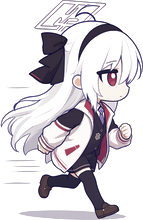
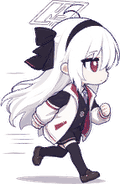
首屏瘦身(①②③)：头像 131KB→33.6KB(96px/9帧，另附4.4KB静态WebP可选)、加载图 50.7KB→9.8KB(加?v=2)、Nginx 加 HSTS、新增 resetSeo 修 og/JSON-LD 残留、文章封面优先作 og:image；首屏 471KB→334KB

diff --git a/index.html b/index.html
@@ -583,7 +583,7 @@
 <!-- ================= 开场加载屏：小人沿进度条奔跑，加载完淡出 ================= -->
 <div id="loader">
   <div class="loader-box">
-    <div class="loader-stage"><img class="loader-runner" src="assets/img/runner.png" alt="加载中"></div>
+    <div class="loader-stage"><img class="loader-runner" src="assets/img/runner.png?v=2" alt="加载中"></div>
     <div class="loader-track"><div class="loader-fill" id="loaderFill"></div></div>
     <div class="loader-pct"><span id="loaderPct">0</span>%</div>
   </div>
@@ -617,7 +617,7 @@
 <div class="toast" id="toast"></div>
 
 <!-- ================= 站点信息：博客名 / 头像 / 介绍 / 背景图 / 页脚，改 site.js 即可 ================= -->
-<script src="site.js?v=12"></script>
+<script src="site.js?v=13"></script>
 
 <!-- ================= 插件库：一个插件一个文件，升级/更换/下线只动 plugins/ 目录 ================= -->
 <script>
@@ -1086,6 +1086,25 @@ function shareBar(kind, id, title) {
     "</div>";
 }
 
+/* 非详情页：把 og 标签重置为站点信息，并移除详情页留下的 JSON-LD
+   （SPA 内从文章返回首页时，否则会残留上一篇文章的标题/描述） */
+function resetSeo() {
+  const set = function (sel, val) {
+    const m = document.querySelector(sel);
+    if (m && val) m.setAttribute("content", val);
+  };
+  set('meta[name="description"]', SITE.description);
+  set('meta[property="og:type"]', "website");
+  set('meta[property="og:title"]', SITE.name);
+  set('meta[property="og:site_name"]', SITE.name);
+  set('meta[property="og:description"]', SITE.description);
+  set('meta[property="og:url"]', SITE.url || (location.origin + "/"));
+  const setImg = document.querySelector('meta[property="og:image"]');
+  if (setImg) setImg.setAttribute("content", siteBase() + "/assets/background.jpg");
+  const ld = document.getElementById("dsh-jsonld");
+  if (ld) ld.remove();
+}
+
 /* 详情页动态 SEO：og 标签 + JSON-LD 结构化数据（给执行 JS 的爬虫） */
 function applyPostSeo(a) {
   const url = postShareUrl(a.id);
@@ -1099,6 +1118,8 @@ function applyPostSeo(a) {
   set('meta[property="og:title"]', a.title);
   set('meta[property="og:description"]', desc);
   set('meta[property="og:url"]', url);
+  /* 分享卡片配图：文章有 cover 就用封面，否则回退站点背景图 */
+  if (a.cover) set('meta[property="og:image"]', /^https?:/i.test(a.cover) ? a.cover : siteBase() + a.cover);
 
   let s = document.getElementById("dsh-jsonld");
   if (!s) {
@@ -1508,6 +1529,7 @@ function route() {
     lastListScroll = window.scrollY || 0;
   }
   articleKeyword = "";
+  resetSeo();          // 先重置为站点默认，文章详情页稍后会重新写入自己的 og/JSON-LD
   let zoomed = false;
   const tryZoom = () => {   // 详情页：尝试从被点卡片的位置放大展开
     const detail = mainView.querySelector(".post-detail, .work-detail");

diff --git a/site.js b/site.js
@@ -14,7 +14,9 @@ window.BLOG_SITE = {
   description: "Kuqi 的个人网站：分享教程、随笔、作品与下载。",  // 站点简介（搜索引擎和分享卡片摘要）
 
   /* 头像 */
-  avatar: "assets/img/preview.gif?v=3",  // 头像图片路径（支持 PNG/JPG/GIF 动图）；留空 "" 则显示名字首字圆形占位
+  avatar: "assets/img/avatar.gif?v=1",  // 头像：96px/9帧压缩动图(33KB，原 preview.gif 131KB)
+  // 想要更极致的体积可换成静态版：assets/img/avatar-static.webp?v=1 （仅 4KB，不动画）
+  // 留空 "" 则显示名字首字圆形占位
 
   /* 背景 */
   backgroundVideo: "assets/background.mp4?v=4",  // 动态视频背景（mp4/webm，静音循环播放）；留空 "" 则用静态背景图。换视频文件后把 v=4 改成 v=5 可强制访客刷新缓存

diff --git a/MAINTAIN.md b/MAINTAIN.md
@@ -381,6 +381,7 @@ pm2 restart strapi
 | **限流分两套** | 后台 120 次/分钟（burst 60）；公开接口 10 次/分钟（burst 5） | 旧配置把 `/admin`、`/upload` 和公开接口放同一个限流额度，**你在后台连续保存、批量传图会被当成灌水返回 429**（已实测第 7 次就中）。现在后台走 `dsh_admin` zone，公开接口走 `dsh_write` zone。改限流数值：`/etc/nginx/conf.d/00-ratelimit.conf`（改完 `nginx -t && systemctl reload nginx`） |
 | **ENCRYPTION_KEY** | 已写入 `backend/.env` | Strapi 加密用密钥。**写入后不要随意更换**（更换会导致依赖它的加密数据无法解密）。缺失时启动日志会有 `Encryption key is missing` 告警 |
 | **PM2 日志轮转** | `pm2-logrotate` 已装：单文件 10M、保留 7 份、压缩、每天 0 点轮转 | 在此之前 `strapi-out.log` 会无限增长（每条请求写一行）。查配置：`pm2 conf pm2-logrotate` |
+| **安全响应头** | nosniff / X-Frame-Options / Referrer-Policy / **HSTS**（2026-09-13 新增，一年有效 + 含子域） | 位置：`/etc/nginx/snippets/dsh-security-headers.conf`。注意 HSTS 会让浏览器强制 HTTPS 一年，若以后有子域没上 HTTPS 需把 `includeSubDomains` 去掉 |
 | **评论查询索引** | `comments` 表已有 `idx_target (target_type, target_id)` | 每篇文章/作品详情页都按这两个字段查评论，加索引后不再全表扫描 |
 
 **一次性脚本已清理**：`src/index.js` 里原来有 4 个靠"放标记文件"触发的批量运维函数（补发布、清理 E2E、撤回等），都属于危险操作且已完成使命，已全部移除；今后要做一次性运维请在 SSH 里临时执行脚本，不要长期留在启动流程里。
